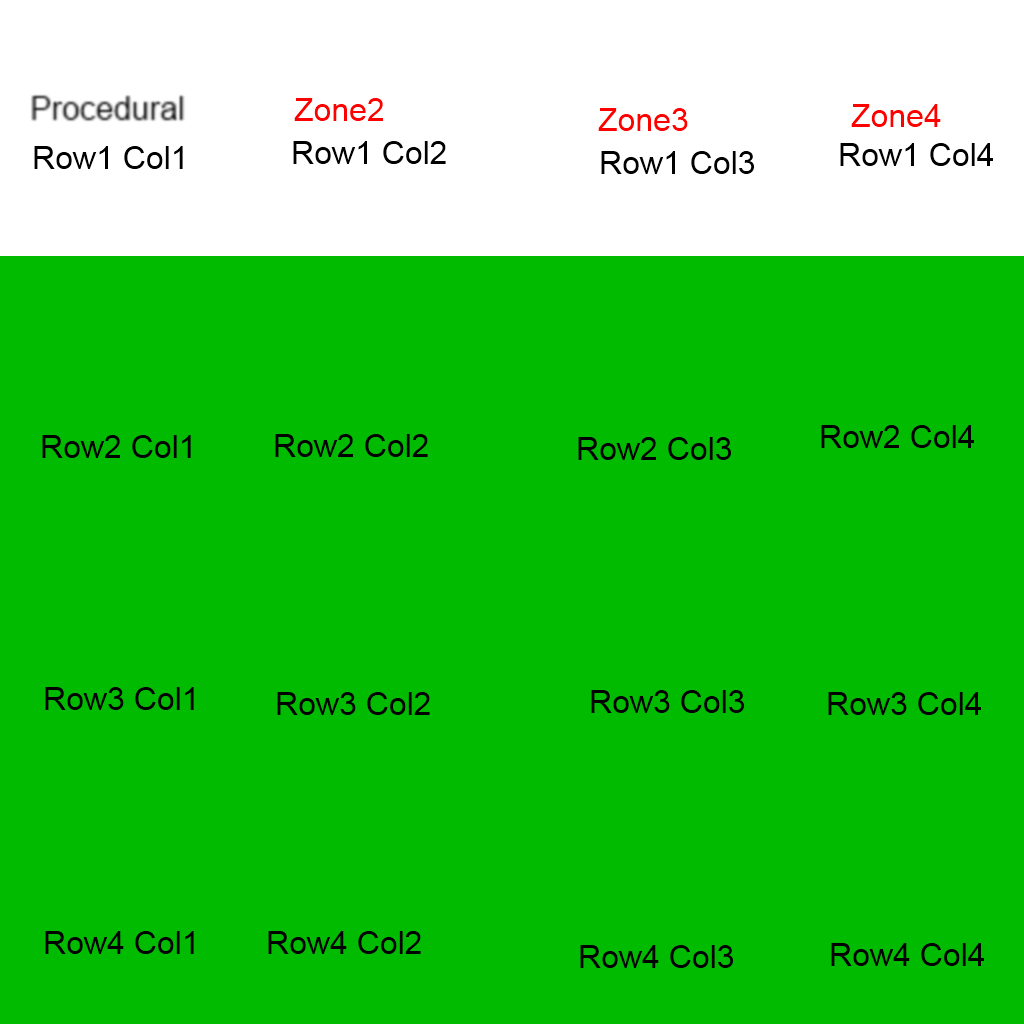
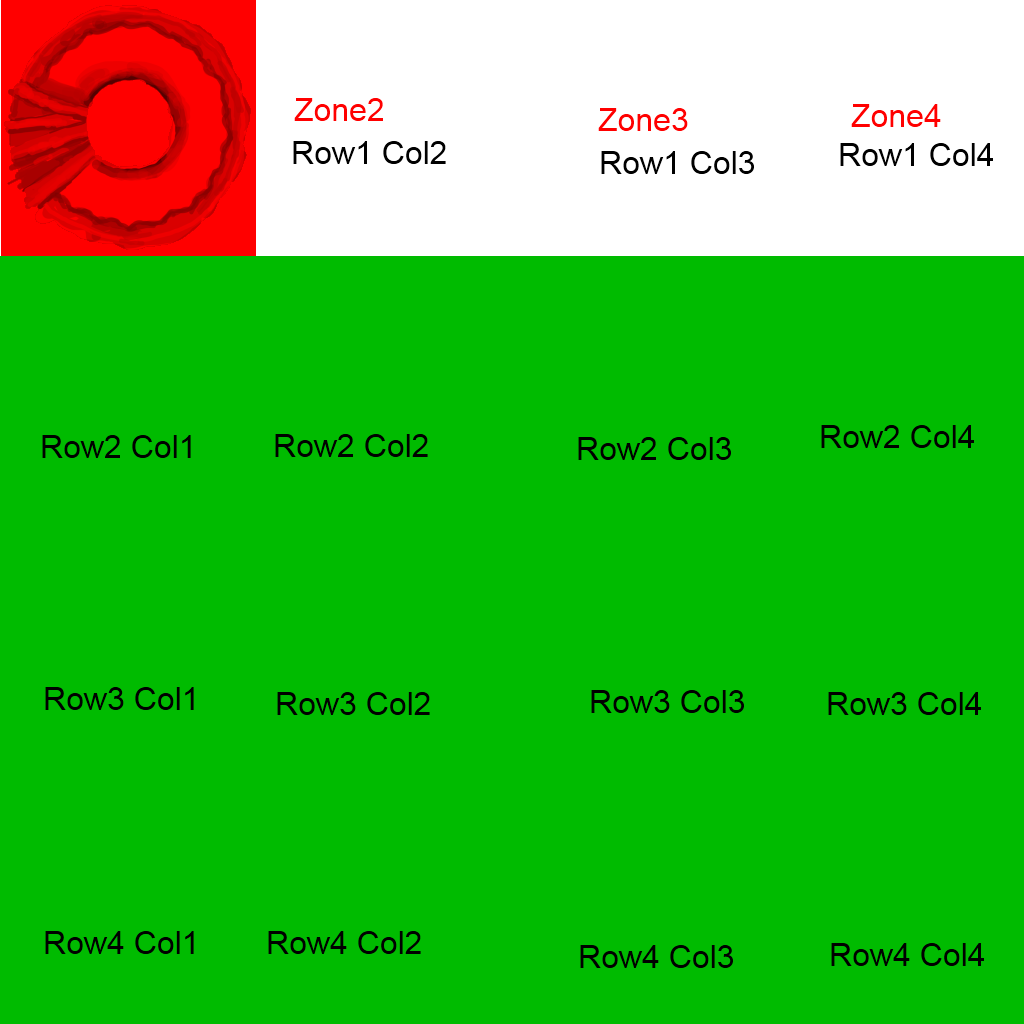
procedural wip

Changed region(s): [[0.0, 0.0, 0.25, 0.25]]

diff --git a/scenes/livepreviewscene.cpp b/scenes/livepreviewscene.cpp
@@ -15,11 +15,6 @@
 using namespace gamui;
 using namespace grinliz;
 
-static const float CENTER_X = 4.0f;
-static const float CENTER_Z = 4.0f;
-static const float START_X = 2.0f;
-static const float START_Z = 2.5f;
-
 LivePreviewScene::LivePreviewScene( LumosGame* game, const LivePreviewSceneData* data ) : Scene( game )
 {
 	TestMap* map = 0;
@@ -32,7 +27,6 @@ LivePreviewScene::LivePreviewScene( LumosGame* game, const LivePreviewSceneData*
 
 	engine = new Engine( game->GetScreenportMutable(), game->GetDatabase(), map );
 	engine->SetGlow( true );
-	engine->lighting.direction.Set( 0, 1, 0 );
 
 	LayoutCalculator layout = game->DefaultLayout();
 	const ButtonLook& look = game->GetButtonLook(0);
@@ -56,16 +50,12 @@ LivePreviewScene::LivePreviewScene( LumosGame* game, const LivePreviewSceneData*
 		typeButton[0].AddToToggleGroup( &typeButton[i] );
 	}
 
-	memset( model, 0, sizeof(Model*) * NUM_MODEL );
+	memset( model, 0, sizeof(model[0])*NUM_MODEL );
+
+	currentType = FACE;
 	GenerateFaces( 0 );
-
-	engine->camera.SetPosWC( CENTER_X, 11, CENTER_Z );
-	static const Vector3F out = { 0, 0, 1 };
-	engine->camera.SetDir( V3F_DOWN, out );		// look straight down. This works! cool.
-	engine->camera.Orbit( 180.0f );
-
 	if ( live ) {
-		CreateTexture();
+		CreateTexture( FACE );
 	}
 	game->InitStd( &gamui2D, &okay, 0 );
 	fileTimer = 0;
@@ -108,6 +98,17 @@ grinliz::Color4F LivePreviewScene::ClearColor()
 
 void LivePreviewScene::GenerateFaces( int mainRow )
 {
+	static const float CENTER_X = 4.0f;
+	static const float CENTER_Z = 4.0f;
+	static const float START_X = 2.0f;
+	static const float START_Z = 2.5f;
+
+	engine->lighting.direction.Set( 0, 1, 0 );
+	engine->camera.SetPosWC( CENTER_X, 11, CENTER_Z );
+	static const Vector3F out = { 0, 0, 1 };
+	engine->camera.SetDir( V3F_DOWN, out );		// look straight down. This works! cool.
+	engine->camera.Orbit( 180.0f );
+
 	FaceGen faceGen( game->GetPalette() );
 
 	float tex[4] = { 0, 0, 0, 0 };
@@ -184,7 +185,67 @@ void LivePreviewScene::GenerateFaces( int mainRow )
 
 void LivePreviewScene::GenerateRing( int mainRow )
 {
+	static const float DELTA  = 0.3f;
+	static const float ORIGIN = DELTA*1.5f;
 
+	engine->lighting.direction.Set( 1, 1, -1 );
+	engine->lighting.direction.Normalize();
+
+	engine->camera.SetPosWC( ORIGIN, ORIGIN, 0 );
+	static const Vector3F out = { 0, 0, 1 };
+	engine->camera.SetDir( out, V3F_UP );
+
+	float tex[4] = { 0, 0, 0, 0 };
+	Random random( mainRow );
+	random.Rand();
+
+	const ModelResource* modelResource = 0;
+	modelResource = ModelResourceManager::Instance()->GetModelResource( "ringProc" );
+
+	int srcRows = modelResource->atom[0].texture->Height() / modelResource->atom[0].texture->Width() * 4;
+	float rowMult = 1.0f / (float)srcRows;
+
+	for( int i=0; i<NUM_MODEL; ++i ) {
+		if ( model[i] ) {
+			engine->FreeModel( model[i] );
+			model[i] = 0;
+		}
+
+		model[i] = engine->AllocModel( modelResource );
+		int row = i / COLS;
+		int col = i - row*COLS;
+		float x = float(col) * DELTA;
+		float y = float(row) * DELTA;
+		float current = 1.0f - rowMult * (float)(mainRow);
+
+		//switch ( row ) {
+		//default:
+			tex[0] = rowMult * (float)random.Rand(srcRows);
+			tex[1] = rowMult * (float)random.Rand(srcRows);
+			tex[2] = rowMult * (float)random.Rand(srcRows);
+			tex[3] = rowMult * (float)random.Rand(srcRows);
+			if ( live ) {
+				tex[col] = current;
+			}
+			//break;
+		//}
+
+		Color4F base     = { 1, 0, 0, 0 };
+		Color4F contrast = { 1, 1, 0, 0 };
+		Color4F effect   = { 0, 1, 0, 1 };
+		Color4F glow     = { 1, 0, 0, 0.5f };
+
+		const Color4F color[4] = {
+			base,					// (r) base
+			contrast,				// (b0) contrast
+			effect,					// (b1) effect
+			glow					// (g) glow
+		};
+
+		model[i]->SetPos( x, y, 3.0f );
+		model[i]->SetYRotation( -90 );
+		model[i]->SetProcedural( true, color, tex );
+	}
 }
 
 
@@ -193,11 +254,20 @@ void LivePreviewScene::ItemTapped( const gamui::UIItem* item )
 	if ( item == &okay ) {
 		game->PopScene();
 	}
-	for( int i=0; i<ROWS; ++i ) {
-		if ( item == &rowButton[i] ) {
-			GenerateFaces( i );
-			break;
+	else if ( item == &typeButton[FACE] ) {
+		for( int i=0; i<ROWS; ++i ) {
+			if ( item == &rowButton[i] ) {
+				currentType = FACE;
+				CreateTexture( FACE );
+				GenerateFaces( i );
+				break;
+			}
 		}
+	}
+	else if ( item == &typeButton[RING] ) {
+		currentType = RING;
+		CreateTexture( RING );
+		GenerateRing( 0 );
 	}
 }
 
@@ -214,16 +284,22 @@ void LivePreviewScene::DoTick( U32 deltaTime )
 		fileTimer += deltaTime;
 		if ( fileTimer > 1000 ) {
 			fileTimer = 0;
-			CreateTexture();
+			CreateTexture( currentType );
 		}
 	}
 }
 
 
-void LivePreviewScene::CreateTexture()
+void LivePreviewScene::CreateTexture( int type )
 {
 	GLASSERT( live );
-	static const char* filename = "./res/humanMaleFace.png";
+	const char* filename = 0;
+	switch( type ) {
+		case FACE:	filename = "./res/humanMaleFace.png";	break;
+		case RING:	filename = "./res/ring.png";			break;
+		default:	GLASSERT( 0 );							break;
+	}
+
 	static const int SIZE = 256;
 	struct _stat buf;
 
@@ -271,4 +347,10 @@ void LivePreviewScene::CreateTexture()
 		GLASSERT( 0 );
 	}	
 	delete [] buffer;
+
+
+	if ( type == FACE ) 
+		t->SetEmissive( false );	// alpha is transparency
+	else
+		t->SetEmissive( true );		// alpha is emissive
 }

diff --git a/script/procedural.h b/script/procedural.h
@@ -48,4 +48,17 @@ private:
 };
 
 
+class WeaponGen 
+{
+public:
+	WeaponGen( const Game::Palette* p_palette ) : palette( p_palette ) {}
+
+	void GetBaseColors( int i0, int i1, int i2, grinliz::Color4F* primary, grinliz::Color4F* secondary, grinliz::Color4F* glow );
+	void GetEffectColor( bool fire, bool shock, grinliz::Color4F* effect );
+
+private:
+	const Game::Palette* palette;
+};
+
+
 #endif // LUMOS_PROCEDURAL_INCLUDED

diff --git a/scenes/livepreviewscene.h b/scenes/livepreviewscene.h
@@ -50,7 +50,7 @@ public:
 	virtual grinliz::Color4F ClearColor();
 
 private:
-	void CreateTexture();
+	void CreateTexture( int type );
 	void GenerateFaces( int mainRow );
 	void GenerateRing( int mainRow );
 
@@ -72,6 +72,7 @@ private:
 	time_t fileTime;
 
 	bool		live;
+	int			currentType;
 	Engine*		engine;
 	Model*		model[NUM_MODEL];
 };

diff --git a/engine/texture.h b/engine/texture.h
@@ -78,6 +78,11 @@ public:
 	int BytesPerPixel() const	{ return (format == ALPHA) ? 1 : 2; }
 
 	U32 GLID();
+	void SetEmissive( bool on )	{ if ( on ) 
+									flags |= PARAM_EMISSIVE;
+								  else
+									flags &= (~PARAM_EMISSIVE);
+								}
 
 private:
 	void Set( const char* name, int w, int h, int format, int flags );
